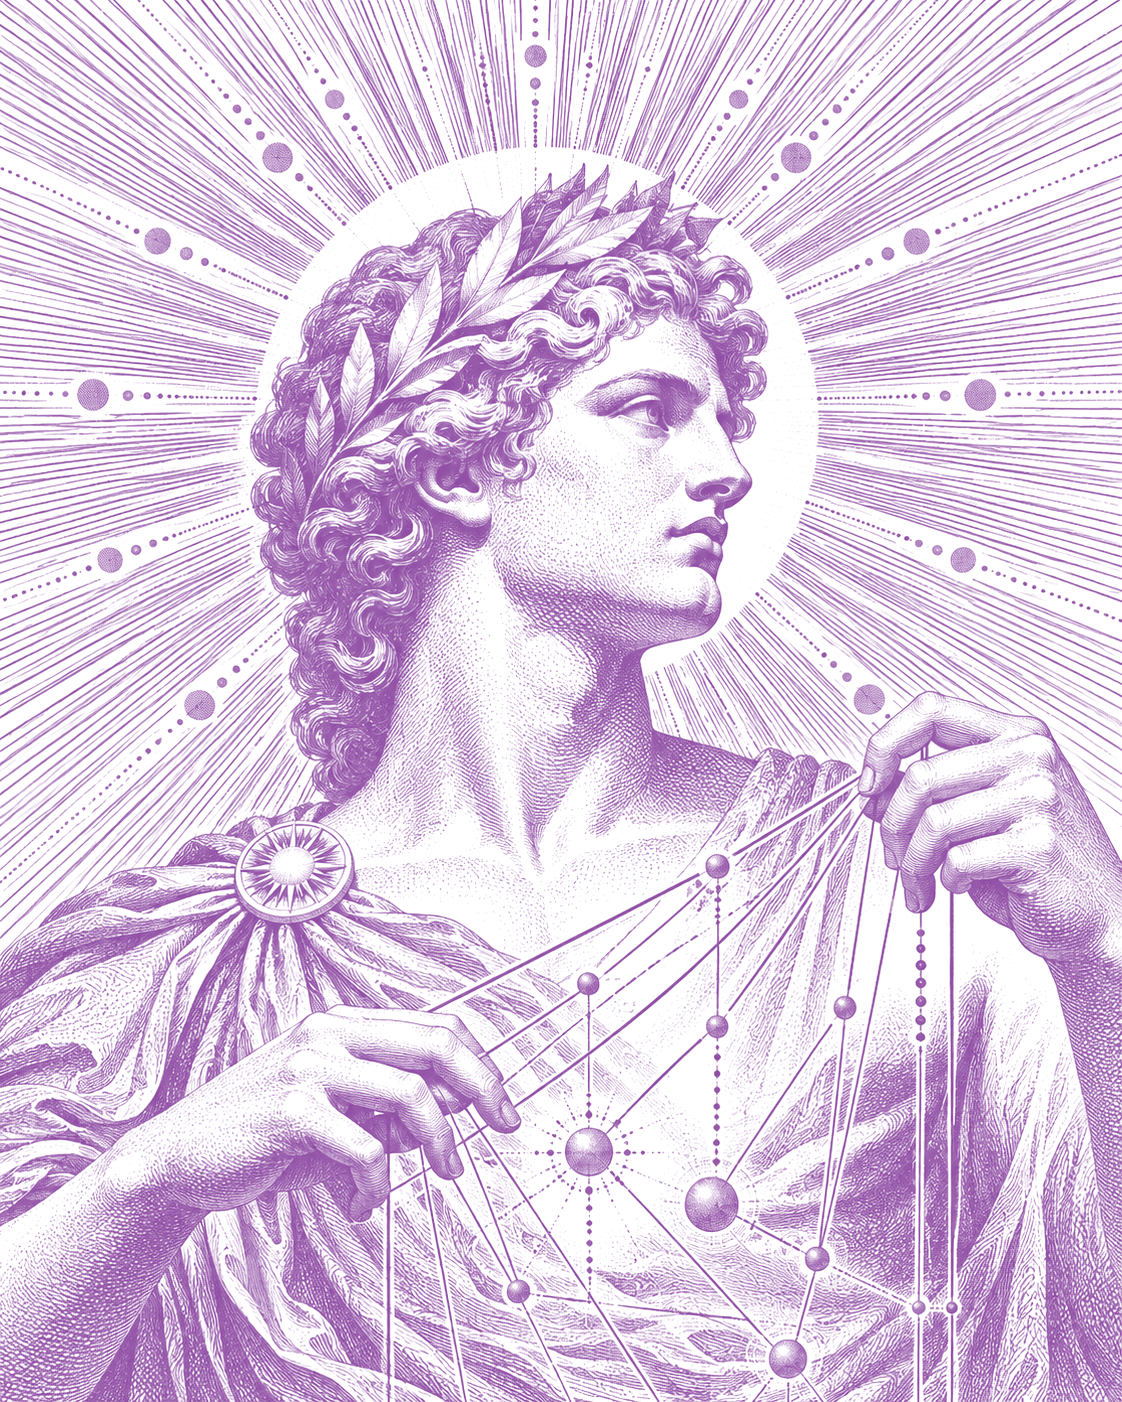
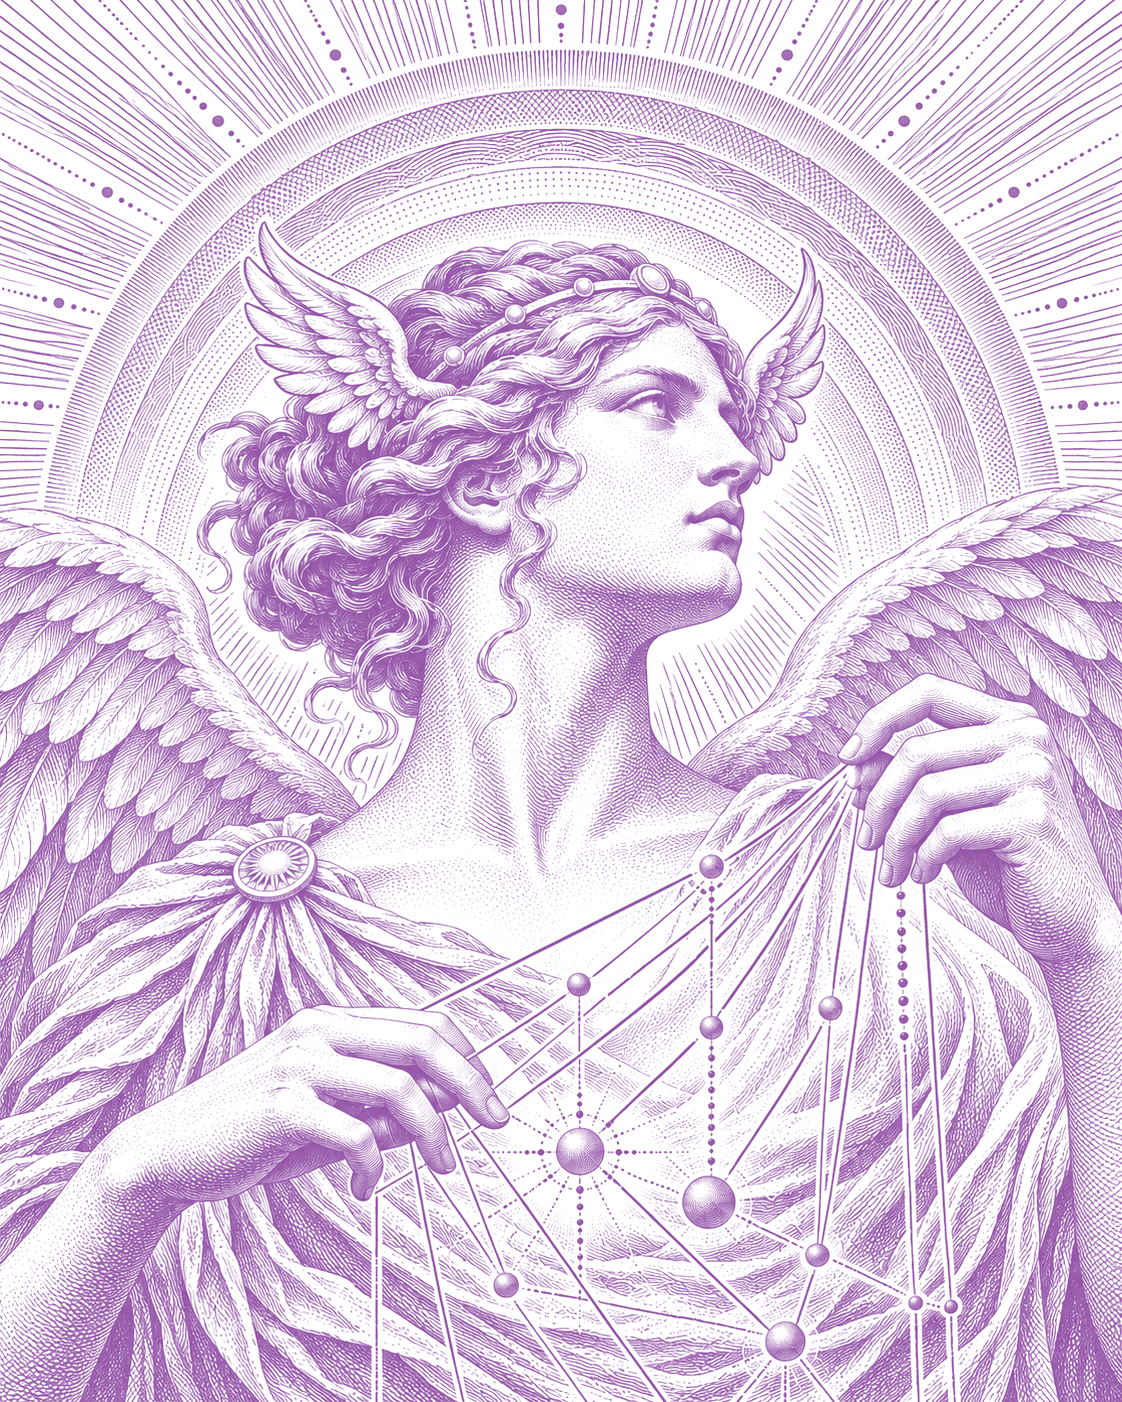
feat(brand): replace Apollo illustrations with the Iris art batch
Codex batch 2026-11-17 for hero, chat, automation, OG, app landing, empty chat, gold logo.

Claude-Session: https://claude.ai/code/session_01T2yTys7qm7jT6KaMpyB14b

diff --git a/website/index.html b/website/index.html
@@ -16,7 +16,7 @@
   <meta property="og:image:type" content="image/webp">
   <meta property="og:image:width" content="1200">
   <meta property="og:image:height" content="630">
-  <meta property="og:image:alt" content="Purple engraving illustration on black">
+  <meta property="og:image:alt" content="Purple engraving of the winged goddess Iris in a medallion with a rainbow halo">
   <meta property="og:url" content="https://iris.wutz.io/">
   <meta name="twitter:card" content="summary_large_image">
   <meta name="theme-color" content="#000000">

diff --git a/docs/brand/art/iris-art-provenance.md b/docs/brand/art/iris-art-provenance.md
@@ -1,0 +1,7 @@
+- {"number": "01", "item_id": "web-hero", "original_generated_file": "/home/tim/.codex/generated_images/01a1eb86-01ea-74f3-95c1-d9885d01aea4/exec-0241e59d-babf-49e6-ae5d-9cd522f72f62.png", "reference_files": ["/home/tim/reviews-local/iris-art-2026-11-17/refs/style-01-old-hero.png", "/home/tim/reviews-local/iris-art-2026-11-17/refs/style-03-temple.png", "/home/tim/reviews-local/iris-art-2026-11-17/refs/style-09-old-app-landing.png"], "exact_prompt": "Use case: stylized-concept.\nCreate exactly ONE finished image: Iris website hero illustration, portrait 4:5 canvas, native target resolution 1536 x 1920 pixels (at least 1400 x 1750). No contact sheet or variants.\nInput images are references only: Image 1, style-01-old-hero.png, defines the close half-figure composition, dense copperplate lines and constellation threads; Image 2, style-03-temple.png, defines the fine banknote hatching and op-art line vocabulary; Image 3, style-09-old-app-landing.png, defines the classical engraved features and stippling. Replace the male Apollo subject and laurel with the female goddess Iris described below. Do not reproduce the temple.\nSubject: Iris, the Greek goddess of the rainbow and messenger of the gods, a young woman with calm classical features, hair gathered in a loose knot with a thin diadem and TWO small feathered wings in her hair above the ears. She wears a flowing draped chiton fastened on one shoulder. Show her half figure in three-quarter view, looking to the RIGHT. Large feathered back wings are half spread behind both shoulders.\nComposition: she fills the portrait frame like Image 1; edge-to-edge composition is allowed. Behind her head is a rainbow halo made of SIX concentric fine-line arc bands with differing hatching density, accompanied by radiating fine rays. With BOTH hands she delicately holds glowing threads of light that connect small orbs into a network/constellation directly in front of her chest, expressing message routes. Render the apparent light with reserved white paper and fine black linework, never luminous colour or grey blur. Make both hands anatomically clear.\nStyle/medium: classical copperplate / banknote engraving, fine parallel hatching, cross-hatching and stippling, with radiating fine lines, concentric arcs, undulating parallel lines and small dots on thin orbit lines. Match the line density and mood of the three references.\nPalette/background: exclusively pure BLACK ink on plain pure WHITE paper. Every perceived grey tone must come from the density of black engraved lines and dots; no grey wash, no soft painted shading, no colour, no paper texture. White is opaque.\nConstraints: no text, no letters, no numbers, no signature, no watermark, no border, no frame, no vignette. No caduceus/kerykeion, no staff with snakes, no Hermes, no winged sandals as the main motif, no Nous Research or Hermes Agent logo or character. No laurel crown. Only the requested Iris composition."}
+- {"number": "02", "item_id": "web-feature-chat", "original_generated_file": "/home/tim/.codex/generated_images/01a1eb86-01ea-74f3-95c1-d9885d01aea4/exec-4c915b1b-f9b7-4d0a-af8a-d21a7fef9dca.png", "reference_files": ["/home/tim/reviews-local/iris-art-2026-11-17/refs/style-02-old-chat.png", "/home/tim/reviews-local/iris-art-2026-11-17/refs/style-01-old-hero.png", "/home/tim/reviews-local/iris-art-2026-11-17/refs/style-03-temple.png", "/home/tim/reviews-local/iris-art-2026-11-17/refs/style-09-old-app-landing.png"], "exact_prompt": "Use case: stylized-concept.\nCreate exactly ONE finished image for the Iris website chat feature. Square 1:1 canvas; native target resolution 1536 x 1536 pixels, at least 1200 x 1200. No contact sheet or variants.\nInput images are references only: Image 1, style-02-old-chat.png, supplies the dense flowing op-art wave-line rhythm and classical copperplate detail; replace its lyre completely with the winged pitcher described below. Images 2, 3 and 4 (style-01-old-hero.png, style-03-temple.png, style-09-old-app-landing.png) supply the shared fine banknote engraving, hatching, cross-hatching and stippling style. Do not reproduce their people, temple, lyre or other subjects.\nSubject: a classical Greek oinochoe, a single-handled pitcher with a trefoil pouring lip, tilted in mid-air, pouring a stream from its lip. A PAIR of small feathered wings grows from the shoulder of the pitcher. The pouring stream transforms smoothly into MANY undulating, closely spaced, parallel op-art wave lines flowing both LEFT and RIGHT across the composition, suggesting a conversation. Preserve the high wave-line density of Image 1. Small dots on a few thin orbit-like wave lines complement the flowing lines.\nComposition: centered, fully visible winged pitcher and flowing stream; the wave bundles sweep broadly in both directions across the frame. Keep generous empty WHITE breathing room around the overall motif so the linework remains separate and legible. No ground, plinth or scenery.\nStyle/medium: classical copperplate / banknote engraving with fine parallel hatching, cross-hatching and stippling. Engrave the vessel, feathers and stream clearly; use fine undulating linework rather than painted water.\nPalette/background: exclusively pure BLACK ink on plain pure WHITE opaque paper. All perceived grey comes only from black line or stipple density; no grey wash, no gradient or soft painted shading, no colour, no paper texture.\nConstraints: no text, letters, numbers, signature, watermark, border, outer frame or vignette. No lyre, no human figure, no caduceus/kerykeion or snakes, no Hermes, no winged sandals as the main motif, no Nous Research or Hermes Agent logo or character."}
+- {"number": "06", "item_id": "web-feature-automation", "original_generated_file": "/home/tim/.codex/generated_images/01a1eb86-01ea-74f3-95c1-d9885d01aea4/exec-ee17e3f4-3cd6-4c21-b290-228d4a0041b6.png", "reference_files": ["/home/tim/reviews-local/iris-art-2026-11-17/refs/style-06-old-automation.png", "/home/tim/reviews-local/iris-art-2026-11-17/codex-out/01-web-hero.png", "/home/tim/reviews-local/iris-art-2026-11-17/refs/style-01-old-hero.png", "/home/tim/reviews-local/iris-art-2026-11-17/refs/style-03-temple.png", "/home/tim/reviews-local/iris-art-2026-11-17/refs/style-09-old-app-landing.png"], "exact_prompt": "Use case: stylized-concept.\nCreate exactly ONE finished illustration for the Iris website automation feature. Square 1:1 canvas, native target resolution 1536 x 1536 pixels, at least 1200 x 1200. No contact sheet or variants.\nInput images are references only: Image 1, style-06-old-automation.png, defines the fine copperplate engraving, orbital rhythm and elaborate classical dial, but its chariot, horses, male Apollo and sun staff must be replaced completely by the new rainbow-bridge composition. Image 2, 01-web-hero.png, is the established IRIS CHARACTER IDENTITY reference: preserve this same young woman's face, hair knot, thin diadem, small feathered hair wings, one-shoulder chiton and feathered back wings. Images 3, 4 and 5, style-01-old-hero.png, style-03-temple.png and style-09-old-app-landing.png, define the shared black-ink banknote engraving and stippling; do not copy their subjects.\nSubject/composition: a rainbow BRIDGE composed of SIX concentric fine-line arc bands, each with a different density of fine parallel hatching, spans from one engraved cloud bank to a second cloud bank across the frame. At its foot sits a LARGE classical clock dial / orrery with distinct clock HANDS and fine unlabelled ticks, with a few fine orbital lines and small dots. The curved rainbow bridge must be unmistakable and continuous between the cloud banks. A SMALL winged figure of IRIS glides along the arc, wearing a flowing chiton, her feathered back wings open. Iris is secondary in scale to the bridge and large dial but clearly readable.\nCharacter continuity: Iris is the same young woman as Image 2, with calm classical features, hair gathered in a loose knot with a thin diadem, two small feathered wings above her ears, a draped chiton fastened on one shoulder, and large feathered back wings. Represent the same face and clothing in the small figure.\nStyle/medium: classical copperplate / banknote engraving, fine parallel hatching, cross-hatching and stippling, fine concentric arcs and radiating lines, undulating parallel lines and small dots on thin orbits. Match the detailed line density and mood of the supplied references.\nPalette/background: pure BLACK ink on plain pure WHITE opaque paper only. All grey appearance comes from black engraved line density; absolutely no grey washes, gradients, colour, paper texture or atmospheric blur. Keep the overall motif centered and fully visible with generous empty white outer margins.\nConstraints: no text, letters, numerals, Roman numerals, signature or watermark. Clock marks are simple strokes only. No border, outer frame or vignette. No chariot, horses or Apollo. No caduceus/kerykeion or snake staff, no Hermes, no winged sandals as the main motif, no Nous Research or Hermes Agent logo or character."}
+- {"number": "08", "item_id": "web-og", "original_generated_file": "/home/tim/.codex/generated_images/01a1eb86-01ea-74f3-95c1-d9885d01aea4/exec-95a57637-5e58-47a9-b38e-8da7254d28cf.png", "reference_files": ["/home/tim/reviews-local/iris-art-2026-11-17/refs/style-08-old-og.png", "/home/tim/reviews-local/iris-art-2026-11-17/codex-out/01-web-hero.png", "/home/tim/reviews-local/iris-art-2026-11-17/refs/style-01-old-hero.png", "/home/tim/reviews-local/iris-art-2026-11-17/refs/style-03-temple.png", "/home/tim/reviews-local/iris-art-2026-11-17/refs/style-09-old-app-landing.png"], "exact_prompt": "Use case: stylized-concept.\nCreate exactly ONE finished Iris social-preview illustration. Native canvas requested: 1200 x 630 pixels, wide LANDSCAPE 1.905:1. No contact sheet or variants.\nInput images are references only: Image 1, style-08-old-og.png, supplies the right-side medallion / left-side empty-space composition. It is shown inverted / pale: do NOT copy its grey ink, male face, laurel or right-facing pose. Image 2, 01-web-hero.png, supplies the established female IRIS IDENTITY; preserve this same face, loose hair knot, thin diadem and feathered hair wings, now seen in LEFT-FACING PROFILE. Images 3, 4 and 5, style-01-old-hero.png, style-03-temple.png and style-09-old-app-landing.png, define the shared classical copperplate / banknote line density, cross-hatching and stippling.\nComposition: keep the entire LEFT 45 PERCENT of the canvas completely empty, solid pure white, with absolutely no ink, rays, dots, shadows or ornament. Text will be added there later; DO NOT generate that text. Place the complete illustration within the RIGHT half, with white breathing room at the outer edges. The art must remain fully visible.\nSubject: a profile medallion containing Iris's head and neck facing LEFT, with calm young classical feminine features, hair gathered in the same loose knot with a thin diadem and two small feathered hair wings above the ears (the far hair wing may be partially occluded in profile). Her head and neck are inside a CIRCULAR engraved medallion rim made from fine hatching. TWO LARGE feathered wings flank the medallion symmetrically, replacing a laurel wreath. Fine radiating rays surround it, and above it sits a thin rainbow arc composed of SIX delicate concentric fine-line bands, with subtly differing hatching density. The medallion rim is part of the subject, not a border around the image.\nStyle/medium: classical copperplate / banknote engraving with fine parallel hatching, cross-hatching and stippling, delicate radiating lines, concentric arcs and small dots on thin lines. All linework, including rays, wings and rainbow, must stay out of the empty left 45 percent.\nPalette/background: exclusively pure BLACK ink on plain pure WHITE opaque paper. No grey wash; all perceived grey comes only from the density of black lines and stippling. No colour, paper texture, soft gradient, vignette or image border.\nConstraints: no text, letters, numbers, signature or watermark anywhere. No laurel wreath, Apollo, caduceus/kerykeion, snake staff, Hermes, winged sandals as the main motif, Nous Research or Hermes Agent logo or character. Do not fill the reserved left space."}
+- {"number": "09", "item_id": "app-landing", "original_generated_file": "/home/tim/.codex/generated_images/01a1eb86-01ea-74f3-95c1-d9885d01aea4/exec-7f5cd980-0017-41a2-821b-0fec2a29fd35.png", "reference_files": ["/home/tim/reviews-local/iris-art-2026-11-17/refs/style-09-old-app-landing.png", "/home/tim/reviews-local/iris-art-2026-11-17/codex-out/01-web-hero.png", "/home/tim/reviews-local/iris-art-2026-11-17/refs/style-01-old-hero.png", "/home/tim/reviews-local/iris-art-2026-11-17/refs/style-03-temple.png"], "exact_prompt": "Use case: stylized-concept.\nCreate exactly ONE finished Iris app start-screen illustration. Portrait 4:5 canvas, native target resolution 1280 x 1600 pixels, at least 1000 x 1250. No contact sheet or variants.\nInput images are references only: Image 1, style-09-old-app-landing.png, defines the isolated front-facing classical bust on a round plinth, delicate sunburst, dotted radial lines and engraving density. Replace its male Apollo and laurel crown with Iris and a rainbow halo. Image 2, 01-web-hero.png, is the established female IRIS IDENTITY: reproduce this SAME young woman's calm classical face, hair gathered in a loose knot, thin diadem, two small feathered wings in the hair above the ears, one-shoulder chiton and feathered back wings, now viewed directly from the FRONT as a marble bust. Images 3 and 4, style-01-old-hero.png and style-03-temple.png, reinforce the shared fine copperplate / banknote hatching and stippling only.\nSubject: a classical MARBLE BUST of IRIS on a round plinth, exact front view, symmetrical calm gaze, serene eyes. The hair is gathered in the established loose knot with thin diadem and two small feathered hair wings. A draped chiton fastens on one shoulder. Because the bust shows her shoulders, include her two large feathered BACK WINGS rising behind them, scaled harmoniously to the bust. Render marble forms entirely with engraved black lines and stippling.\nBehind her head: a rainbow halo of SIX concentric fine-line arc bands, each with subtly different hatching density, plus a delicate sunburst of fine rays and dots on thin lines. The halo supplements the bust without overwhelming it.\nComposition: isolated centered complete bust, wings and round plinth on empty white paper. Keep a WIDE unmarked white margin on ALL sides, including around the outermost sunburst rays: the entire ornament including rays must fit well inside the canvas, approximately within the central 75 percent of its width and height. No cut-off feathers, rays, plinth or figure. No scenery or ground shadow.\nStyle/medium: classical copperplate / banknote engraving, fine parallel hatching, cross-hatching and stippling; radiating fine lines, concentric arcs and small dots on thin orbit lines. Match the mood and line density of the supplied engraving references.\nPalette/background: pure BLACK ink on plain pure WHITE opaque paper ONLY. Every apparent grey value must arise from black line and dot density; no grey wash, gradients, coloured tint, paper texture or soft shading.\nConstraints: no text, letters, numbers, signature, watermark, border, outer frame or vignette. No laurel crown, Apollo, caduceus/kerykeion, snake staff, Hermes, winged sandals as the main motif, Nous Research or Hermes Agent logo or character."}
+- {"number": "10", "item_id": "app-empty-chat", "original_generated_file": "/home/tim/.codex/generated_images/01a1eb86-01ea-74f3-95c1-d9885d01aea4/exec-af2b85ed-e697-44b1-a0a3-b703344215ca.png", "reference_files": ["/home/tim/reviews-local/iris-art-2026-11-17/refs/style-10-old-app-empty-chat.png", "/home/tim/reviews-local/iris-art-2026-11-17/codex-out/02-web-feature-chat.png", "/home/tim/reviews-local/iris-art-2026-11-17/refs/style-01-old-hero.png", "/home/tim/reviews-local/iris-art-2026-11-17/refs/style-03-temple.png", "/home/tim/reviews-local/iris-art-2026-11-17/refs/style-09-old-app-landing.png"], "exact_prompt": "Use case: stylized-concept.\nCreate exactly ONE finished small isolated Iris empty-chat emblem. Square 1:1 canvas, native target resolution 1280 x 1280 pixels, at least 1000 x 1000. No contact sheet or variants.\nInput images are references only: Image 1, style-10-old-app-empty-chat.png, defines the SMALL centered isolated emblem, broad white margins and restrained engraving detail; replace its lyre completely. Image 2, 02-web-feature-chat.png, supplies the established winged classical Greek oinochoe design family; simplify it into a clear upright emblem, with no pouring stream or wave field. Images 3, 4 and 5, style-01-old-hero.png, style-03-temple.png and style-09-old-app-landing.png, define the shared copperplate / banknote linework and stippling only, not their subjects or busy compositions.\nSubject: a single classical Greek OINOCHOE PITCHER, upright, with its single handle and trefoil pouring lip clearly readable. A PAIR of small feathered wings attaches at the shoulder of the vessel. Above it is a thin rainbow arc formed from SIX very fine concentric line bands, distinguished with restrained line density. Add just a few short radiating rays around the emblem.\nComposition: simple, balanced, fully visible and centered on empty white paper with WIDE margins on every side. The entire emblem including wings, rainbow and rays should occupy only about the central 55 percent of the canvas width and height, like Image 1. Strong clean silhouette and simplified detail must stay readable when displayed at 180 px. No base, scenery, pouring stream, dense waves, extra ornaments or human figure.\nStyle/medium: classical copperplate / banknote engraving with fine parallel hatching, small cross-hatched shadows and restrained stippling; keep the elegant engraved line quality of the references while reducing detail for a small emblem.\nPalette/background: exclusively pure BLACK ink on plain pure WHITE opaque paper. All apparent grey is produced by the density of black lines and dots, never grey wash, smooth gradients, colour, paper texture or soft shadow.\nConstraints: no text, letters, numbers, signature, watermark, border, frame or vignette. No lyre, Apollo, caduceus/kerykeion or snake staff, Hermes, winged sandals as the main motif, Nous Research or Hermes Agent logo or character."}
+- {"number": "14", "item_id": "logo-gold-trippy", "original_generated_file": "/home/tim/.codex/generated_images/01a1eb86-01ea-74f3-95c1-d9885d01aea4/exec-b59fecef-294c-48bf-abb2-f642d7d5eefb.png", "reference_files": ["/home/tim/reviews-local/iris-art-2026-11-17/refs/geometry-14-new-iris-emblem.png", "/home/tim/reviews-local/iris-art-2026-11-17/refs/style-14-old-logo-gold.png"], "exact_prompt": "Use case: logo-brand.\nCreate exactly ONE finished engraved metallic GOLD Iris emblem on pure BLACK. Square 1:1 canvas, native target resolution 1280 x 1280 pixels, at least 1000 x 1000. No contact sheet or variants.\nInput image roles: Image 1, geometry-14-new-iris-emblem.png, is the AUTHORITATIVE EMBLEM GEOMETRY reference. Preserve the shapes, topology and relative proportions of its tall classical serif capital I, three rainbow half-ring bands, inner rays, technical dial circle and subtle undulating halo rings. Its small off-center placement and charcoal background patch are NOT part of the required geometry: place the complete finished emblem in the CENTER of the new square, fully visible with generous black margin. Image 2, style-14-old-logo-gold.png, is ONLY the MATERIAL / ENGRAVING / RENDERING STYLE reference: match its metallic engraved gold, rich fine-line texture, crisp dimensional edges and refined technical ring. Do NOT copy its A, triangular counter, crossbar, sun crown or large triangular sun spikes.\nMain form: exactly ONE tall, unmistakable classical serif capital letter \"I\", a single straight vertical stem with broad horizontal serif bars at its TOP and BOTTOM, like Image 1. The I rises ABOVE the apex of a gold RAINBOW formed from exactly THREE concentric semicircular half-ring bands, with clear black gaps separating them. The I overlaps the bands centrally and remains visually dominant; the outer band is brightest gold, the middle band is medium gold, the inner band is deepest gold. Follow Image 1's relative letter-and-rainbow arrangement precisely.\nBehind the I and confined inside the inner rainbow band are fine engraved rays of light. Around the entire emblem is a THIN technical circular dial ring with fine unlabelled ticks and subtle undulating halo rings. All components stay centered, balanced, sharp and fully visible.\nMaterial and colour: engraved metallic gold with base #D4AF72, highlights #F2DDAE and shadows #A47C45. Fine engraved line texture on the gold; dimensional metallic edges and restrained highlights like Image 2. Only the emblem carries gold. The background must be perfectly flat pure #000000 all the way to every edge, including negative spaces, with NO charcoal patch, vignette, atmosphere, coloured background glow or frame.\nText allowed: only the single capital letter \"I\" forming the emblem. No other letters, words, numerals, labels, signature or watermark. No A, H, T, numeral 1, sun crown, triangular rays, laurel, human face, pitcher or additional symbols. Render the geometry from Image 1 in the engraved gold finish of Image 2."}

diff --git a/.agent/STATE.md b/.agent/STATE.md
@@ -141,11 +141,11 @@ conventions are in `docs/ARCHITECTURE.md`.
   (needs fontTools); store PNGs are rendered from `docs/brand/*.svg` with
   headless Chrome. `scripts/brand/process_art.py <codex-out>` derives the
   transparent WebPs for app and website from native Codex outputs.
-- Iris art batch: spec and prompt in `docs/brand/art/`, native outputs in
-  `~/reviews-local/iris-art-2026-11-17/codex-out/` (local only). Until it is
-  ingested, the Apollo motifs (bust, lyre, sun chariot, gold "A" logo) remain
-  in `website/assets/img/` and `drawable-nodpi/`. The 2026-10-13 Apollo batch
-  lived in `~/reviews/`, which is on the encrypted Data disk.
+- Iris art batch (2026-11-17): spec and prompt in `docs/brand/art/`,
+  provenance in `docs/brand/art/iris-art-provenance.md`, native outputs in
+  `~/reviews-local/iris-art-2026-11-17/codex-out/` (local only; the `.jpg`
+  files there are Antigravity alternatives for 02/06/08). The 2026-10-13
+  Apollo batch lived in `~/reviews/`, which is on the encrypted Data disk.
 - Local toolchain without the Data disk: SDK `~/.cache/codex-toolchains/android-sdk`
   (platform 37.0, build-tools 37, emulator, AVD `iris_api37` in
   `~/.cache/codex-toolchains/avd`), JDK 25 for Gradle (foojay provisions 21).

diff --git a/docs/BRANDING.md b/docs/BRANDING.md
@@ -121,7 +121,8 @@ Engraving-style illustrations in one colour, purple `#8D4BA3`, complement the
 gold emblem: classical motifs (Iris with feathered wings and rainbow halo, her
 pitcher, the rainbow bridge, laurel, temple, columns) drawn with fine op-art
 linework. The Iris motifs replace the Apollo ones (bust, lyre, sun chariot) from
-the 2026-11-17 batch (`docs/brand/art/iris-art-spec.md`). They are original artwork from an
+the 2026-11-17 Codex batch (`docs/brand/art/iris-art-spec.md`, provenance in
+`docs/brand/art/iris-art-provenance.md`). They are original artwork from an
 owner-run image batch, used only as decoration.
 
 - Pipeline: `scripts/brand/process_art.py <batch folder>` re-inks every
